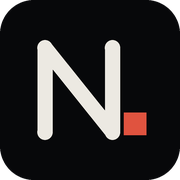
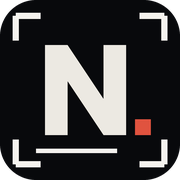
Nav: the Index panel scrolls on its own, one dark rail everywhere, a new drafted N. mark
- The open Index panel scrolls by itself; the page behind stays put and the intro no longer replays
- Light mode removed: every page is dark, and the light switches are gone from the rail and panel
- Rail and panel use the same colours on every page
- New mark: a solid N inside crop marks, with a dashed construction line, a measured baseline and the red full stop; used in the rail, favicons and the laptop desktop

diff --git a/js/nav.js b/js/nav.js
@@ -24,7 +24,6 @@
   const CASE_ROWS = [['kuwago', 'kuwaGO', 'Mobile app', 'assets/cs/kuwago-garden.jpg', '#5BB06A'], ['cinematheque', 'Cinematheque', 'Web system', 'assets/cs/cinematheque-title.jpg', '#E2763F'],
     ['xpera', 'xpera CRM', 'Desktop system', 'assets/cs/xpera-logo.jpg', '#F4506A']];
   const MORE = [['projects.html', 'All projects'], ['about.html', 'Profile'], ['skills.html', 'Skills'], ['certifications.html', 'Certificates'], ['resume.html', 'Resume'], ['desk.html', 'The room']];
-  const themeIcon = '<svg viewBox="0 0 24 24" aria-hidden="true"><circle cx="12" cy="12" r="8"/><path d="M12 4a8 8 0 0 0 0 16z" fill="currentColor"/></svg>';
   const motionIcon = '<svg viewBox="0 0 24 24" aria-hidden="true"><path d="M3 12c3-6 6-6 9 0s6 6 9 0"/></svg>';
   const pad = n => String(n).padStart(2, '0');
   const isCur = h => h === file || h === file + location.search;
@@ -33,15 +32,14 @@
   document.body.insertAdjacentHTML('afterbegin', `
 <a class="skip" href="#main">Skip to content</a>
 <aside class="rail" aria-label="Site">
-  <a class="rail-mark" href="${home || 'index.html'}" aria-label="Nicho.dev, back to the start">N<i>.</i></a>
+  <a class="rail-mark" href="${home || 'index.html'}" aria-label="Nicho.dev, back to the start"><svg class="mark" viewBox="0 0 40 40" aria-hidden="true"><path class="mk-crop" d="M3 9V3h6M31 3h6v6M37 31v6h-6M9 37H3v-6"/><path class="mk-guide" d="M8 6.5L31 35"/><path class="mk-n" d="M10 30V10h5l8 12V10h5v20h-5l-8-12v12z"/><path class="mk-base" d="M8 33.5h18M8 32v3M26 32v3"/><rect class="mk-dot" x="30" y="26.5" width="3.5" height="3.5"/></svg></a>
   <button class="rail-menu" aria-expanded="false" aria-controls="panel"><span class="burger" aria-hidden="true"><i></i><i></i></span><span class="rail-word">Index</span></button>
   <div class="rail-tools">
-    <button class="rtool" data-theme-toggle>${themeIcon}<span class="sr">Light</span></button>
     <button class="rtool" data-motion-toggle>${motionIcon}<span class="sr">Motion</span></button>
   </div>
 </aside>
 <div class="scrim" aria-hidden="true"></div>
-<div class="panel" id="panel" role="dialog" aria-modal="true" aria-label="Index" tabindex="-1" inert>
+<div class="panel" id="panel" role="dialog" aria-modal="true" aria-label="Index" tabindex="-1" data-lenis-prevent inert>
   <div class="panel-head"><span class="mono">Index</span><button class="panel-close mono" type="button">Close <kbd>Esc</kbd></button></div>
   <nav class="p-sec" aria-label="Sections">
     <p class="p-label mono">On the main page</p>
@@ -57,7 +55,7 @@
   </nav>
   <div class="p-foot">
     <div class="mono"><a href="mailto:neckolescano36@gmail.com">Email ↗</a><a href="https://github.com/neckolescano" target="_blank" rel="noopener">GitHub ↗</a><a href="assets/Nicho-Lescano-Resume.pdf" download>Resume ↓</a></div>
-    <div class="p-tools"><button class="p-tool mono" type="button" data-theme-toggle><span>Light</span></button><button class="p-tool mono" type="button" data-motion-toggle><span>Motion</span></button></div>
+    <div class="p-tools"><button class="p-tool mono" type="button" data-motion-toggle><span>Motion</span></button></div>
   </div>
 </div>`);
 

diff --git a/css/nav.css b/css/nav.css
@@ -20,8 +20,15 @@ body.has-rail { padding-left: var(--rail); overflow-x: clip; }
 /* ---------- the rail: mark, index, two switches ---------- */
 .rail { position: fixed; z-index: 120; left: 0; top: 0; bottom: 0; width: var(--rail); display: flex; flex-direction: column; align-items: center; gap: 22px; padding: 22px 0 18px;
   background: var(--bg); border-right: 1px solid var(--hair); }
-.rail-mark { font: 600 1.55rem/1 var(--cond); letter-spacing: .02em; }
-.rail-mark i { font-style: normal; color: var(--mark); }
+.rail-mark { display: grid; place-items: center; width: 46px; height: 46px; color: var(--ink); }
+.rail-mark .mark { width: 40px; height: 40px; overflow: visible; }
+.mark .mk-n { fill: currentColor; }
+.mark .mk-crop { fill: none; stroke: currentColor; stroke-width: 1.2; opacity: .5; transition: transform .45s var(--ease), opacity .3s; transform-origin: 20px 20px; }
+.mark .mk-guide { fill: none; stroke: var(--mark); stroke-width: .8; stroke-dasharray: 1.6 1.8; opacity: .75; }
+.mark .mk-base { fill: none; stroke: currentColor; stroke-width: .9; opacity: .55; }
+.mark .mk-dot { fill: var(--mark); transition: transform .45s var(--ease); transform-origin: 31.75px 28.25px; }
+.rail-mark:hover .mk-crop, .rail-mark:focus-visible .mk-crop { transform: scale(1.12); opacity: .9; }
+.rail-mark:hover .mk-dot, .rail-mark:focus-visible .mk-dot { transform: rotate(45deg) scale(1.15); }
 .rail-menu { display: grid; justify-items: center; gap: 10px; background: none; border: 0; cursor: pointer; padding: 10px 6px; color: var(--ink); }
 .burger { display: grid; gap: 6px; width: 26px; }
 .burger i { display: block; height: 1.5px; background: var(--line); transition: transform .5s var(--ease-io), width .5s var(--ease-io); }
@@ -114,3 +121,10 @@ html.tx-hold::after { content: ""; position: fixed; inset: 0; z-index: 9999; bac
 @media (prefers-reduced-motion: reduce) { html:not(.motion) .panel, html:not(.motion) .scrim { transition: none; } }
 .panel-close:focus-visible { outline: 1px solid var(--mark); outline-offset: 4px; }
 .p-list a:focus-visible, .p-case:focus-visible, .p-more a:focus-visible { outline: 1px dashed var(--mark); outline-offset: 2px; }
+
+/* while the index is open, the page behind it stays put; only the panel scrolls */
+html.panel-open, html.panel-open body { overflow: hidden; }
+
+/* the rail and the index look the same on every page, whatever the page's own colours */
+.rail { background: #08090C; border-right-color: rgba(236,233,226,.09); color: #ECE9E2; --ink: #ECE9E2; --hair: rgba(236,233,226,.1); --line: rgba(236,233,226,.32); --fill: rgba(236,233,226,.05); --mark: #E0533F; }
+.panel { background: #0D0F13; color: #ECE9E2; --ink: #ECE9E2; --muted: #9AA0AB; --hair: rgba(236,233,226,.1); --line: rgba(236,233,226,.32); --fill: rgba(236,233,226,.05); --mark: #E0533F; border-right-color: rgba(236,233,226,.1); }

diff --git a/projects.html b/projects.html
@@ -21,13 +21,13 @@
 <meta property="og:image:alt" content="Nicho Lescano, UI/UX designer and developer, beside a render of the studio desk">
 <meta name="twitter:card" content="summary_large_image">
 <!-- /share -->
-<script>(function(){var d=document.documentElement,g=function(k){try{return localStorage.getItem(k)}catch(e){return null}};d.dataset.theme=g('theme')||(matchMedia('(prefers-color-scheme: dark)').matches?'dark':'light');var m=g('motion');if(m?m==='on':!matchMedia('(prefers-reduced-motion: reduce)').matches)d.classList.add('motion')})()</script>
+<script>(function(){var d=document.documentElement,g=function(k){try{return localStorage.getItem(k)}catch(e){return null}};d.dataset.theme='dark';var m=g('motion');if(m?m==='on':!matchMedia('(prefers-reduced-motion: reduce)').matches)d.classList.add('motion')})()</script>
 <script>try{if(document.documentElement.classList.contains('motion')&&sessionStorage.getItem('nd-tx'))document.documentElement.classList.add('tx-hold')}catch(e){}</script>
 <link rel="preconnect" href="https://fonts.googleapis.com">
 <link rel="preconnect" href="https://fonts.gstatic.com" crossorigin>
 <link href="https://fonts.googleapis.com/css2?family=IBM+Plex+Mono:wght@400;500&family=IBM+Plex+Sans:wght@400;500;600&family=IBM+Plex+Sans+Condensed:wght@400;500;600&display=swap" rel="stylesheet">
 <link rel="stylesheet" href="css/site.css">
-<link rel="stylesheet" href="css/nav.css">
+<link rel="stylesheet" href="css/nav.css?v=12">
 <link rel="stylesheet" href="css/sheet.css">
 <link rel="stylesheet" href="css/case.css?v=2">
 </head>
@@ -38,7 +38,7 @@
 </main>
 <script src="js/projects.js?v=2"></script>
 <script src="https://cdn.jsdelivr.net/npm/lenis@1.1.13/dist/lenis.min.js"></script>
-<script src="js/nav.js"></script>
+<script src="js/nav.js?v=12"></script>
 <script src="js/site.js"></script>
 </body>
 </html>

diff --git a/skills.html b/skills.html
@@ -21,13 +21,13 @@
 <meta property="og:image:alt" content="Nicho Lescano, UI/UX designer and developer, beside a render of the studio desk">
 <meta name="twitter:card" content="summary_large_image">
 <!-- /share -->
-<script>(function(){var d=document.documentElement,g=function(k){try{return localStorage.getItem(k)}catch(e){return null}};d.dataset.theme=g('theme')||(matchMedia('(prefers-color-scheme: dark)').matches?'dark':'light');var m=g('motion');if(m?m==='on':!matchMedia('(prefers-reduced-motion: reduce)').matches)d.classList.add('motion')})()</script>
+<script>(function(){var d=document.documentElement,g=function(k){try{return localStorage.getItem(k)}catch(e){return null}};d.dataset.theme='dark';var m=g('motion');if(m?m==='on':!matchMedia('(prefers-reduced-motion: reduce)').matches)d.classList.add('motion')})()</script>
 <script>try{if(document.documentElement.classList.contains('motion')&&sessionStorage.getItem('nd-tx'))document.documentElement.classList.add('tx-hold')}catch(e){}</script>
 <link rel="preconnect" href="https://fonts.googleapis.com">
 <link rel="preconnect" href="https://fonts.gstatic.com" crossorigin>
 <link href="https://fonts.googleapis.com/css2?family=IBM+Plex+Mono:wght@400;500&family=IBM+Plex+Sans:wght@400;500;600&family=IBM+Plex+Sans+Condensed:wght@400;500;600&display=swap" rel="stylesheet">
 <link rel="stylesheet" href="css/site.css">
-<link rel="stylesheet" href="css/nav.css">
+<link rel="stylesheet" href="css/nav.css?v=12">
 <link rel="stylesheet" href="css/sheet.css">
 </head>
 <body class="page-body">
@@ -54,7 +54,7 @@
   <p class="hand skill-note" aria-live="polite"></p>
 </main>
 <script src="https://cdn.jsdelivr.net/npm/lenis@1.1.13/dist/lenis.min.js"></script>
-<script src="js/nav.js"></script>
+<script src="js/nav.js?v=12"></script>
 <script src="js/site.js"></script>
 </body>
 </html>

diff --git a/about.html b/about.html
@@ -21,13 +21,13 @@
 <meta property="og:image:alt" content="Nicho Lescano, UI/UX designer and developer, beside a render of the studio desk">
 <meta name="twitter:card" content="summary_large_image">
 <!-- /share -->
-<script>(function(){var d=document.documentElement,g=function(k){try{return localStorage.getItem(k)}catch(e){return null}};d.dataset.theme=g('theme')||(matchMedia('(prefers-color-scheme: dark)').matches?'dark':'light');var m=g('motion');if(m?m==='on':!matchMedia('(prefers-reduced-motion: reduce)').matches)d.classList.add('motion')})()</script>
+<script>(function(){var d=document.documentElement,g=function(k){try{return localStorage.getItem(k)}catch(e){return null}};d.dataset.theme='dark';var m=g('motion');if(m?m==='on':!matchMedia('(prefers-reduced-motion: reduce)').matches)d.classList.add('motion')})()</script>
 <script>try{if(document.documentElement.classList.contains('motion')&&sessionStorage.getItem('nd-tx'))document.documentElement.classList.add('tx-hold')}catch(e){}</script>
 <link rel="preconnect" href="https://fonts.googleapis.com">
 <link rel="preconnect" href="https://fonts.gstatic.com" crossorigin>
 <link href="https://fonts.googleapis.com/css2?family=IBM+Plex+Mono:wght@400;500&family=IBM+Plex+Sans:wght@400;500;600&family=IBM+Plex+Sans+Condensed:wght@400;500;600&display=swap" rel="stylesheet">
 <link rel="stylesheet" href="css/site.css">
-<link rel="stylesheet" href="css/nav.css">
+<link rel="stylesheet" href="css/nav.css?v=12">
 <link rel="stylesheet" href="css/sheet.css">
 </head>
 <body class="page-body">
@@ -70,7 +70,7 @@
   </div>
 </main>
 <script src="https://cdn.jsdelivr.net/npm/lenis@1.1.13/dist/lenis.min.js"></script>
-<script src="js/nav.js"></script>
+<script src="js/nav.js?v=12"></script>
 <script src="js/site.js"></script>
 </body>
 </html>

diff --git a/certifications.html b/certifications.html
@@ -21,13 +21,13 @@
 <meta property="og:image:alt" content="Nicho Lescano, UI/UX designer and developer, beside a render of the studio desk">
 <meta name="twitter:card" content="summary_large_image">
 <!-- /share -->
-<script>(function(){var d=document.documentElement,g=function(k){try{return localStorage.getItem(k)}catch(e){return null}};d.dataset.theme=g('theme')||(matchMedia('(prefers-color-scheme: dark)').matches?'dark':'light');var m=g('motion');if(m?m==='on':!matchMedia('(prefers-reduced-motion: reduce)').matches)d.classList.add('motion')})()</script>
+<script>(function(){var d=document.documentElement,g=function(k){try{return localStorage.getItem(k)}catch(e){return null}};d.dataset.theme='dark';var m=g('motion');if(m?m==='on':!matchMedia('(prefers-reduced-motion: reduce)').matches)d.classList.add('motion')})()</script>
 <script>try{if(document.documentElement.classList.contains('motion')&&sessionStorage.getItem('nd-tx'))document.documentElement.classList.add('tx-hold')}catch(e){}</script>
 <link rel="preconnect" href="https://fonts.googleapis.com">
 <link rel="preconnect" href="https://fonts.gstatic.com" crossorigin>
 <link href="https://fonts.googleapis.com/css2?family=IBM+Plex+Mono:wght@400;500&family=IBM+Plex+Sans:wght@400;500;600&family=IBM+Plex+Sans+Condensed:wght@400;500;600&display=swap" rel="stylesheet">
 <link rel="stylesheet" href="css/site.css">
-<link rel="stylesheet" href="css/nav.css">
+<link rel="stylesheet" href="css/nav.css?v=12">
 <link rel="stylesheet" href="css/sheet.css">
 </head>
 <body class="page-body">
@@ -42,7 +42,7 @@
   </div>
 </main>
 <script src="https://cdn.jsdelivr.net/npm/lenis@1.1.13/dist/lenis.min.js"></script>
-<script src="js/nav.js"></script>
+<script src="js/nav.js?v=12"></script>
 <script src="js/site.js"></script>
 </body>
 </html>

diff --git a/contact.html b/contact.html
@@ -21,13 +21,13 @@
 <meta property="og:image:alt" content="Nicho Lescano, UI/UX designer and developer, beside a render of the studio desk">
 <meta name="twitter:card" content="summary_large_image">
 <!-- /share -->
-<script>(function(){var d=document.documentElement,g=function(k){try{return localStorage.getItem(k)}catch(e){return null}};d.dataset.theme=g('theme')||(matchMedia('(prefers-color-scheme: dark)').matches?'dark':'light');var m=g('motion');if(m?m==='on':!matchMedia('(prefers-reduced-motion: reduce)').matches)d.classList.add('motion')})()</script>
+<script>(function(){var d=document.documentElement,g=function(k){try{return localStorage.getItem(k)}catch(e){return null}};d.dataset.theme='dark';var m=g('motion');if(m?m==='on':!matchMedia('(prefers-reduced-motion: reduce)').matches)d.classList.add('motion')})()</script>
 <script>try{if(document.documentElement.classList.contains('motion')&&sessionStorage.getItem('nd-tx'))document.documentElement.classList.add('tx-hold')}catch(e){}</script>
 <link rel="preconnect" href="https://fonts.googleapis.com">
 <link rel="preconnect" href="https://fonts.gstatic.com" crossorigin>
 <link href="https://fonts.googleapis.com/css2?family=IBM+Plex+Mono:wght@400;500&family=IBM+Plex+Sans:wght@400;500;600&family=IBM+Plex+Sans+Condensed:wght@400;500;600&display=swap" rel="stylesheet">
 <link rel="stylesheet" href="css/site.css">
-<link rel="stylesheet" href="css/nav.css">
+<link rel="stylesheet" href="css/nav.css?v=12">
 <link rel="stylesheet" href="css/sheet.css">
 </head>
 <body class="page-body">
@@ -46,7 +46,7 @@
   </div>
 </main>
 <script src="https://cdn.jsdelivr.net/npm/lenis@1.1.13/dist/lenis.min.js"></script>
-<script src="js/nav.js"></script>
+<script src="js/nav.js?v=12"></script>
 <script src="js/site.js"></script>
 </body>
 </html>

diff --git a/desk.html b/desk.html
@@ -27,7 +27,7 @@
 <link rel="preconnect" href="https://fonts.gstatic.com" crossorigin>
 <link href="https://fonts.googleapis.com/css2?family=Caveat:wght@500;700&family=IBM+Plex+Mono:wght@400;500&family=IBM+Plex+Sans:wght@400;500;600&family=IBM+Plex+Sans+Condensed:wght@400;500;600&display=swap" rel="stylesheet">
 <link rel="stylesheet" href="css/site.css?v=11">
-<link rel="stylesheet" href="css/nav.css?v=11">
+<link rel="stylesheet" href="css/nav.css?v=12">
 <link rel="stylesheet" href="css/os.css?v=4">
 <link rel="stylesheet" href="css/room.css?v=15">
 <link rel="modulepreload" href="https://cdn.jsdelivr.net/npm/three@0.160.0/build/three.module.js">
@@ -87,9 +87,9 @@
 </main>
 
 <script src="https://cdnjs.cloudflare.com/ajax/libs/gsap/3.12.5/gsap.min.js"></script>
-<script src="js/nav.js?v=11"></script>
+<script src="js/nav.js?v=12"></script>
 <script src="js/site.js?v=11"></script>
-<script src="js/os.js?v=7"></script>
+<script src="js/os.js?v=8"></script>
 <script type="module" src="js/room.js?v=40"></script>
 </body>
 </html>

diff --git a/index.html b/index.html
@@ -28,7 +28,7 @@
 <link rel="preconnect" href="https://fonts.gstatic.com" crossorigin>
 <link href="https://fonts.googleapis.com/css2?family=IBM+Plex+Mono:wght@400;500&family=IBM+Plex+Sans:wght@400;500;600&family=IBM+Plex+Sans+Condensed:wght@400;500;600&display=swap" rel="stylesheet">
 <link rel="stylesheet" href="css/site.css?v=11">
-<link rel="stylesheet" href="css/nav.css?v=11">
+<link rel="stylesheet" href="css/nav.css?v=12">
 <link rel="stylesheet" href="css/home.css?v=14">
 </head>
 <body class="home">
@@ -319,8 +319,8 @@
 <script src="https://cdnjs.cloudflare.com/ajax/libs/gsap/3.12.5/gsap.min.js"></script>
 <script src="https://cdnjs.cloudflare.com/ajax/libs/gsap/3.12.5/ScrollTrigger.min.js"></script>
 <script src="https://cdn.jsdelivr.net/npm/lenis@1.1.13/dist/lenis.min.js"></script>
-<script src="js/nav.js?v=11"></script>
+<script src="js/nav.js?v=12"></script>
 <script src="js/site.js?v=11"></script>
-<script src="js/home.js?v=13"></script>
+<script src="js/home.js?v=14"></script>
 </body>
 </html>

diff --git a/js/home.js b/js/home.js
@@ -443,6 +443,7 @@
     setHint();
 
     addEventListener('wheel', e => {
+      if (root.classList.contains('panel-open')) return;
       if (open) { e.preventDefault(); if (e.deltaY > 4) enter(); return; }
       if (scrollY <= 2 && e.deltaY < -10) replay();
     }, { passive: false });
